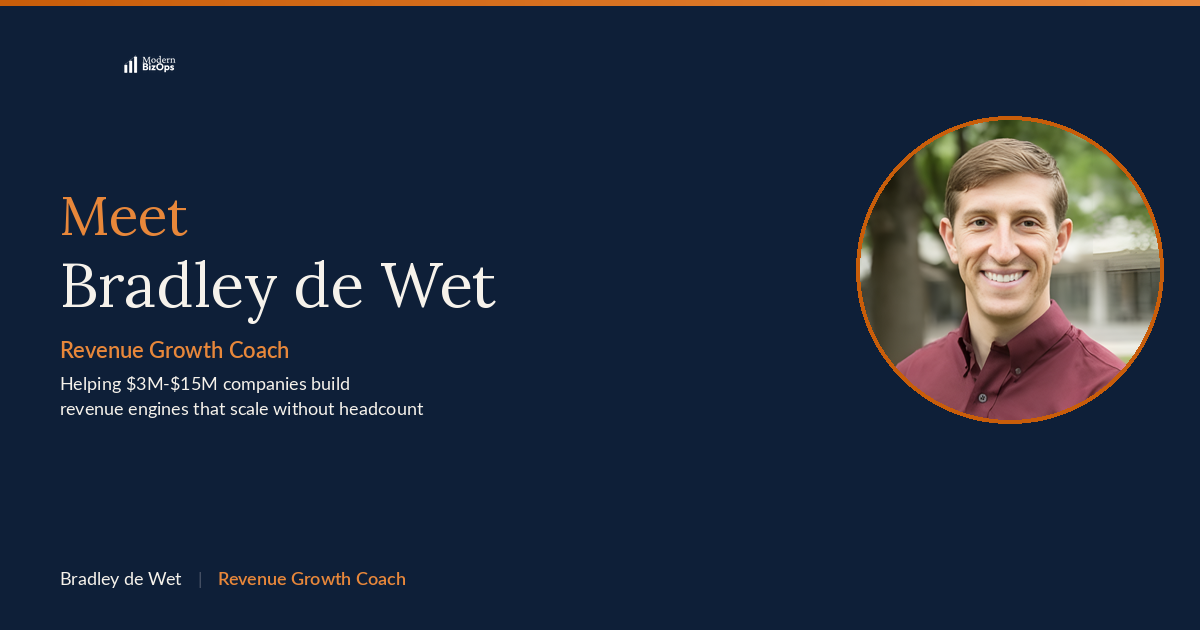
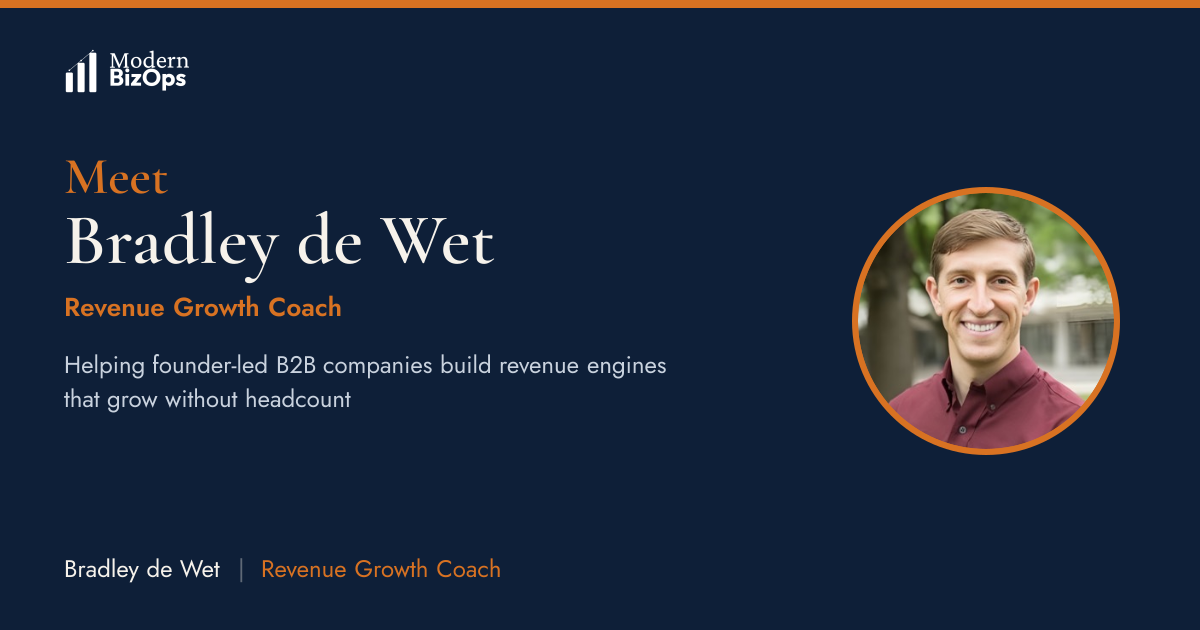
feat(copy): broaden positioning to founder-led B2B $3M to $50M (#12)
Audit-driven copy update aligning the site to the broadened audience
(founder-led B2B companies, $3M to $50M, any business model) while
protecting the "without adding headcount" SEO equity.

- Widen the $3M to $15M cap to $3M to $50M across site metadata, hero,
  solution, playbook, watch, about, and structured data
- Replace the "for SMBs" brand title with "for Founder-Led B2B Companies"
- Drop services-only narrowing (the $12M services company proof point and
  the Marcus Chen booking-form placeholders)
- Rewrite FAQ structured data to mirror the live on-page FAQ and remove the
  AI-as-offer question; correct the stale "7-phase methodology" claim
- Remove two em-dash defects in /playbook metadata
- Add $15M to $50M and $50M+ revenue bands (both forms and both HubSpot
  API maps, legacy $15M+ key retained for historical records)
- Standardize the scorecard question count to fifteen
- Regenerate homepage, about, and scorecard OG images via a new reusable
  Satori generator (scripts/generate-og.mjs)

diff --git a/app/schema.js b/app/schema.js
@@ -5,7 +5,7 @@ export function getOrganizationSchema() {
     name: "Modern BizOps",
     url: "https://modernbizops.com",
     description:
-      "Revenue growth coaching for $3M–$15M companies. Done-with-you coaching that builds sales, marketing, and delivery systems.",
+      "Revenue growth coaching for founder-led B2B companies from $3M to $50M. Done-with-you coaching that builds sales, marketing, and delivery systems.",
     founder: {
       "@type": "Person",
       name: "Bradley de Wet",
@@ -23,7 +23,7 @@ export function getServiceSchema() {
       name: "Modern BizOps",
     },
     description:
-      "Done-with-you coaching that builds the operational systems to grow revenue without proportionally growing headcount. 7-phase methodology with proprietary diagnostic technology.",
+      "Done-with-you coaching that builds the operational systems to grow revenue without proportionally growing headcount. A four-phase engagement built on the Revenue Operations Maturity Model and the Revenue Intelligence Platform.",
     areaServed: "Worldwide",
     serviceType: "Business Coaching",
   };
@@ -40,7 +40,7 @@ export function getPersonSchema() {
       name: "Modern BizOps",
     },
     description:
-      "15+ years building revenue operations inside high-growth, VC-backed startups. Helps $3M–$15M companies build revenue engines that grow without proportional headcount growth.",
+      "15+ years building revenue operations inside high-growth, VC-backed startups. Helps founder-led B2B companies from $3M to $50M build revenue engines that grow without proportional headcount growth.",
   };
 }
 
@@ -54,15 +54,15 @@ export function getFAQSchema() {
         name: "How is this different from a marketing agency or CRM consultant?",
         acceptedAnswer: {
           "@type": "Answer",
-          text: "Agencies execute tactics. CRM consultants configure software. I build the operational system that connects your marketing, sales, and delivery into one revenue engine, and I coach your team to run it. When we're done, you don't need me anymore.",
+          text: "Agencies execute tactics. CRM consultants configure software. I build the operational system that connects your marketing, sales, and delivery into one revenue engine, and I coach your team to run it. When we are done, you do not need me anymore. That is the point.",
         },
       },
       {
         "@type": "Question",
-        name: "We're only a $3M company. Are we too small for this?",
+        name: "We are only a $3M company. Are we too small for this?",
         acceptedAnswer: {
           "@type": "Answer",
-          text: "If you have a sales team, a marketing function, and clients to serve, you have a revenue engine, even if it's held together with duct tape. The earlier you build the right systems, the faster you grow.",
+          text: "If you have a sales team, a marketing function, and clients to serve, you have a revenue engine, even if it is held together with duct tape. The earlier you build the right systems, the faster you grow and the less painful the scaling process is.",
         },
       },
       {
@@ -70,23 +70,23 @@ export function getFAQSchema() {
         name: "What if my team resists the changes?",
         acceptedAnswer: {
           "@type": "Answer",
-          text: "That's exactly why this is done-with-you, not done-to-you. Your team is involved in every phase: mapping their own processes, defining their own metrics, choosing the AI tools they'll actually use. People don't resist change they helped create.",
+          text: "That is why this is done-with-you, not done-to-you. Your team is involved throughout: mapping their own processes, defining their own metrics, choosing the tools they will actually use. People do not resist change they helped create.",
         },
       },
       {
         "@type": "Question",
-        name: "What kind of AI tools will we implement?",
+        name: "How is my maturity stage determined?",
         acceptedAnswer: {
           "@type": "Answer",
-          text: "Depends on where your biggest time drains are. Common implementations include AI-powered lead scoring, automated follow-up sequences, chatbots for initial customer support, and automated reporting dashboards. We focus on tools that save your team measurable hours per week, not shiny objects.",
+          text: "Three ways, in sequence. First, the Revenue Intelligence Platform connects to your existing tools and analyzes your actual data: CRM completeness, pipeline stage distribution, integration coverage. That takes about 30 minutes of your time and produces data-driven scores on 15-20 competencies without any self-reporting. Second, a structured questionnaire covers what data alone cannot assess. Third, a 60-90 minute discovery call with you personally, where I validate the preliminary scores and surface anything the data cannot capture. You see the scoring rationale for every competency. Nothing is a black box.",
         },
       },
       {
         "@type": "Question",
-        name: "I've been burned by consultants before.",
+        name: "I have been burned by consultants before.",
         acceptedAnswer: {
           "@type": "Answer",
-          text: "Most consulting engagements fail because the consultant builds something in a silo that the team rejects, or because the engagement ends and nobody knows how to maintain what was built. My model solves both problems: your team builds it with my guidance, so they own it. And every recommendation comes from your actual data, not a generic template.",
+          text: "I hear this a lot. Most consulting engagements fail because the consultant builds something in a silo that the team rejects, or because the engagement ends and nobody knows how to maintain what was built. My model solves both problems: your team builds it with my coaching, so they own it. And every recommendation comes from your actual maturity assessment, not a generic template applied to every client regardless of where they are.",
         },
       },
     ],

diff --git a/app/playbook/page.js b/app/playbook/page.js
@@ -3,9 +3,9 @@ import Image from "next/image";
 import PlaybookForm from "./PlaybookForm";
 
 export const metadata = {
-  title: "The Revenue Maturity Playbook — Free Download",
+  title: "The Revenue Maturity Playbook: Free Download",
   description:
-    "A stage-by-stage framework to grow revenue without adding headcount. Used by $3M–$15M B2B founders to build predictable, capital-efficient growth systems.",
+    "A stage-by-stage framework to grow revenue without adding headcount. Used by founder-led B2B companies from $3M to $50M to build predictable, capital-efficient growth systems.",
   alternates: {
     canonical: "https://modernbizops.com/playbook",
   },
@@ -19,7 +19,7 @@ export const metadata = {
         url: "https://modernbizops.com/og/og-playbook.png",
         width: 1200,
         height: 630,
-        alt: "Modern BizOps — The Revenue Maturity Playbook",
+        alt: "Modern BizOps: The Revenue Maturity Playbook",
       },
     ],
   },
@@ -27,7 +27,7 @@ export const metadata = {
     card: "summary_large_image",
     title: "The Revenue Maturity Playbook",
     description:
-      "A stage-by-stage framework for $3M–$15M companies. Free download.",
+      "A stage-by-stage framework for founder-led B2B companies from $3M to $50M. Free download.",
     images: ["https://modernbizops.com/og/og-playbook.png"],
   },
 };
@@ -93,8 +93,8 @@ export default function PlaybookPage() {
 
               <p className="font-body text-lg md:text-xl text-text-mid mb-8 leading-relaxed">
                 A stage-by-stage framework to grow revenue without adding
-                headcount. Used by $3M–$15M B2B founders to build predictable,
-                capital-efficient growth systems.
+                headcount. Used by founder-led B2B companies from $3M to $50M to
+                build predictable, capital-efficient growth systems.
               </p>
 
               {/* Trust signals */}
@@ -168,7 +168,7 @@ export default function PlaybookPage() {
               Every dollar of growth should not require another hire
             </h2>
             <p className="font-body text-base md:text-lg text-cream/80 leading-relaxed">
-              Most $3M–$15M founders are operating at Stage 1 or Stage 2 of the
+              Most B2B founders between $3M and $50M are operating at Stage 1 or Stage 2 of the
               revenue maturity model without knowing it. The framework in this
               playbook maps exactly where you are and what to build next to reach
               predictable, capital-efficient growth.

diff --git a/components/BookPageClient.jsx b/components/BookPageClient.jsx
@@ -14,7 +14,8 @@ const revenueOptions = [
   "$1M–$3M",
   "$3M–$5M",
   "$5M–$15M",
-  "$15M+",
+  "$15M–$50M",
+  "$50M+",
 ];
 
 const teamSizeOptions = ["1–5", "6–15", "16–30", "30+"];
@@ -311,7 +312,7 @@ export default function BookPageClient() {
                     onChange={handleChange}
                     required
                     autoComplete="given-name"
-                    placeholder="Marcus"
+                    placeholder="Jordan"
                     className="w-full border border-border rounded-[6px] px-4 py-3 font-body text-text-primary bg-white focus:outline-none focus:ring-2 focus:ring-navy-mid focus:border-transparent"
                   />
                 </div>
@@ -326,7 +327,7 @@ export default function BookPageClient() {
                     onChange={handleChange}
                     required
                     autoComplete="family-name"
-                    placeholder="Chen"
+                    placeholder="Lee"
                     className="w-full border border-border rounded-[6px] px-4 py-3 font-body text-text-primary bg-white focus:outline-none focus:ring-2 focus:ring-navy-mid focus:border-transparent"
                   />
                 </div>
@@ -343,7 +344,7 @@ export default function BookPageClient() {
                   onChange={handleChange}
                   required
                   autoComplete="email"
-                  placeholder="marcus@company.com"
+                  placeholder="jordan@company.com"
                   className={`w-full border rounded-[6px] px-4 py-3 font-body text-text-primary bg-white focus:outline-none focus:ring-2 focus:ring-navy-mid focus:border-transparent ${errors.email ? "border-red-400" : "border-border"}`}
                 />
                 {errors.email && (

diff --git a/components/VSSLPlayer.jsx b/components/VSSLPlayer.jsx
@@ -13,7 +13,7 @@ export default function VSSLPlayer() {
       <div className="aspect-video rounded-[14px] overflow-hidden mb-10 shadow-lg">
         <iframe
           src={`https://www.youtube-nocookie.com/embed/${VIDEO_ID}?autoplay=1&rel=0&modestbranding=1&playsinline=1&color=white`}
-          title="How $3M-$15M Founders Grow Revenue Without Growing Headcount"
+          title="How Founder-Led B2B Companies Grow Revenue Without Growing Headcount"
           allow="accelerometer; autoplay; clipboard-write; encrypted-media; gyroscope; picture-in-picture; web-share"
           allowFullScreen
           referrerPolicy="strict-origin-when-cross-origin"
@@ -27,11 +27,11 @@ export default function VSSLPlayer() {
     <button
       onClick={() => setPlaying(true)}
       className="relative w-full aspect-video rounded-[14px] overflow-hidden mb-10 shadow-lg cursor-pointer group block"
-      aria-label="Play: How $3M-$15M Founders Grow Revenue Without Growing Headcount"
+      aria-label="Play: How Founder-Led B2B Companies Grow Revenue Without Growing Headcount"
     >
       <Image
         src={`https://img.youtube.com/vi/${VIDEO_ID}/maxresdefault.jpg`}
-        alt="Video thumbnail: How $3M-$15M Founders Grow Revenue Without Growing Headcount"
+        alt="Video thumbnail: How Founder-Led B2B Companies Grow Revenue Without Growing Headcount"
         fill
         sizes="(max-width: 768px) 100vw, 900px"
         priority

diff --git a/app/layout.js b/app/layout.js
@@ -25,7 +25,7 @@ const jost = Jost({
 
 export const metadata = {
   title: {
-    default: "Modern BizOps | Revenue Growth Coaching for SMBs",
+    default: "Modern BizOps | Revenue Growth Coaching for Founder-Led B2B Companies",
     template: "%s | Modern BizOps",
   },
   description:
@@ -36,7 +36,7 @@ export const metadata = {
     locale: "en_US",
     url: "https://modernbizops.com",
     siteName: "Modern BizOps",
-    title: "Modern BizOps | Revenue Growth Coaching for SMBs",
+    title: "Modern BizOps | Revenue Growth Coaching for Founder-Led B2B Companies",
     description:
       "Grow your revenue without growing your headcount. Done-with-you coaching that builds the sales, marketing, and delivery systems that turn growth into profit.",
     images: [
@@ -50,9 +50,9 @@ export const metadata = {
   },
   twitter: {
     card: "summary_large_image",
-    title: "Modern BizOps | Revenue Growth Coaching for SMBs",
+    title: "Modern BizOps | Revenue Growth Coaching for Founder-Led B2B Companies",
     description:
-      "Grow your revenue without growing your headcount. Done-with-you coaching for $3M–$15M companies.",
+      "Grow your revenue without growing your headcount. Done-with-you coaching for founder-led B2B companies from $3M to $50M.",
     images: ["https://modernbizops.com/og/og-homepage.png"],
   },
   robots: {

diff --git a/lib/scorecard/voice.js b/lib/scorecard/voice.js
@@ -66,7 +66,7 @@ export function bandTitle(key) {
 }
 
 export const DISCLOSURE = sanitizeVoice(
-  'This is a directional read from sixteen questions. It tells you which stage of the maturity ladder you sit on, where you stack up against peer benchmarks on the three metrics I can compute from your inputs, and the boundary you need to cross next. It does not replace the full assessment, which connects to your CRM and revenue tools, scores all 44 competencies, and produces the specific roadmap from where you are to the business outcome you want. If the numbers above feel directionally right, that is the signal to take the next step.'
+  'This is a directional read from fifteen questions. It tells you which stage of the maturity ladder you sit on, where you stack up against peer benchmarks on the three metrics I can compute from your inputs, and the boundary you need to cross next. It does not replace the full assessment, which connects to your CRM and revenue tools, scores all 44 competencies, and produces the specific roadmap from where you are to the business outcome you want. If the numbers above feel directionally right, that is the signal to take the next step.'
 );
 
 export const CTA_HEADING = 'The Modern BizOps Maturity Assessment';

diff --git a/app/scorecard/page.js b/app/scorecard/page.js
@@ -5,7 +5,7 @@ import ScorecardExperience from '@/components/scorecard/ScorecardExperience';
 export const metadata = {
   title: 'Modern BizOps Maturity Scorecard',
   description:
-    'In five minutes, find the dollar amount your operating system is leaving on the table and the one gap I would fix first. Sixteen questions. Peer-anchored ROI math from named public benchmark reports.',
+    'In five minutes, find the dollar amount your operating system is leaving on the table and the one gap I would fix first. Fifteen questions. Peer-anchored ROI math from named public benchmark reports.',
   alternates: {
     canonical: 'https://modernbizops.com/scorecard',
   },
@@ -26,7 +26,7 @@ export const metadata = {
   twitter: {
     card: 'summary_large_image',
     title: 'Modern BizOps Maturity Scorecard',
-    description: 'Sixteen questions. Peer-anchored ROI. The one gap I would fix first.',
+    description: 'Fifteen questions. Peer-anchored ROI. The one gap I would fix first.',
     images: ['https://modernbizops.com/og/og-scorecard.png'],
   },
 };

diff --git a/app/page.js b/app/page.js
@@ -17,7 +17,7 @@ import FinalCTA from "@/components/sections/FinalCTA";
 export const metadata = {
   title: "Grow Your Revenue Without Growing Your Headcount | Modern BizOps",
   description:
-    "I help $3M–$15M companies build the sales, marketing, and delivery systems that turn growth into profit. Done-with-you revenue operations coaching.",
+    "I help founder-led B2B companies from $3M to $50M build the sales, marketing, and delivery systems that turn growth into profit. Done-with-you revenue operations coaching.",
   alternates: {
     canonical: "https://modernbizops.com",
   },
@@ -39,7 +39,7 @@ export const metadata = {
     card: "summary_large_image",
     title: "Grow Your Revenue Without Growing Your Headcount",
     description:
-      "Done-with-you coaching for $3M-$15M companies.",
+      "Done-with-you coaching for founder-led B2B companies from $3M to $50M.",
     images: ["https://modernbizops.com/og/og-homepage.png"],
   },
 };

diff --git a/app/watch/page.js b/app/watch/page.js
@@ -7,7 +7,7 @@ import VSSLPlayer from "@/components/VSSLPlayer";
 export const metadata = {
   title: "Watch How It Works",
   description:
-    "See how Modern BizOps helps $3M–$15M companies build revenue engines that grow without proportional headcount growth.",
+    "See how Modern BizOps helps founder-led B2B companies from $3M to $50M build revenue engines that grow without proportional headcount growth.",
   alternates: {
     canonical: "https://modernbizops.com/watch",
   },
@@ -15,7 +15,7 @@ export const metadata = {
   openGraph: {
     title: "Watch How It Works",
     description:
-      "See how Modern BizOps helps $3M-$15M companies build revenue engines that scale.",
+      "See how Modern BizOps helps founder-led B2B companies from $3M to $50M build revenue engines that scale.",
     url: "https://modernbizops.com/watch",
     images: [
       {

diff --git a/components/scorecard/ScorecardExperience.jsx b/components/scorecard/ScorecardExperience.jsx
@@ -42,7 +42,7 @@ function Landing({ onStart }) {
           <div>
             <h2 className="font-display text-xl md:text-2xl font-semibold text-navy mb-3">What this is not</h2>
             <p className="font-body text-text-mid leading-relaxed">
-              This is a directional read from sixteen questions. It is not the full assessment I run with paying clients, which connects to your CRM and revenue tools and scores all 44 competencies. If the numbers below feel right, that is the signal to take the next step.
+              This is a directional read from fifteen questions. It is not the full assessment I run with paying clients, which connects to your CRM and revenue tools and scores all 44 competencies. If the numbers below feel right, that is the signal to take the next step.
             </p>
           </div>
         </div>

diff --git a/components/sections/Hero.jsx b/components/sections/Hero.jsx
@@ -11,8 +11,9 @@ export default function Hero() {
               Grow Your Revenue Without Growing Your Headcount
             </h1>
             <p className="font-body text-[15px] md:text-base lg:text-lg text-text-mid leading-relaxed mb-8">
-              I help $3M–$15M companies build the sales, marketing, and delivery
-              systems that turn growth into profit, not just more payroll.
+              I help founder-led B2B companies from $3M to $50M build the sales,
+              marketing, and delivery systems that turn growth into profit, not
+              just more payroll.
             </p>
             <div className="flex flex-col sm:flex-row items-start gap-4 mb-8">
               <Button href="/book" size="large">

diff --git a/app/api/submit-form/route.js b/app/api/submit-form/route.js
@@ -19,7 +19,9 @@ const REVENUE_TO_DEAL_AMOUNT = {
   "$1M–$3M": 8000,
   "$3M–$5M": 8000,
   "$5M–$15M": 15000,
-  "$15M+": 25000,
+  "$15M–$50M": 25000,
+  "$50M+": 40000,
+  "$15M+": 25000, // legacy band, retained for historical/in-flight submissions
 };
 
 // Maps form field values to internal HubSpot enumeration values
@@ -28,7 +30,9 @@ const REVENUE_OPTIONS = {
   "$1M–$3M": "1m_3m",
   "$3M–$5M": "3m_5m",
   "$5M–$15M": "5m_15m",
-  "$15M+": "15m_plus",
+  "$15M–$50M": "15m_50m",
+  "$50M+": "50m_plus",
+  "$15M+": "15m_plus", // legacy band, retained for historical/in-flight submissions
 };
 
 const TEAM_SIZE_OPTIONS = {
